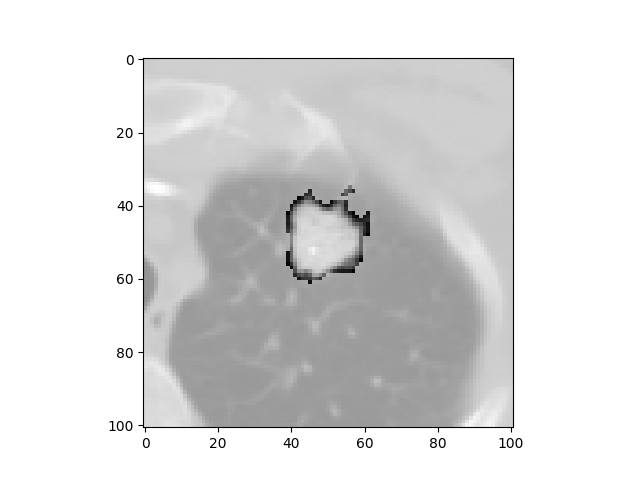
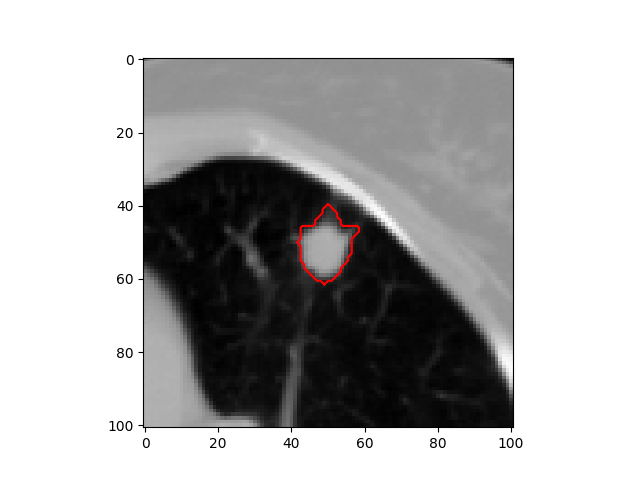
Added jaccard distance to distance metrics. Augmented the resample function to allow sample in common coordinate systems.

diff --git a/pylidc/Annotation.py b/pylidc/Annotation.py
@@ -687,7 +687,9 @@ class Annotation(Base):
         # Return the included points minus the excluded points.
         return included.difference( excluded )
 
-    def uniform_cubic_resample(self, side_length=None, verbose=True):
+    def uniform_cubic_resample(self, side_length=None, resample_vol=True,
+                               irp_pts=None, return_irp_pts=False,
+                               verbose=True):
         """
         Get the CT value volume and respective boolean mask volume. The 
         volumes are interpolated and resampled to have uniform spacing of 1mm
@@ -707,16 +709,32 @@ class Annotation(Base):
             out-of-bounds image index, then the image is padded with 
             the minimum CT image value.
 
+        resample_vol: boolean, default True
+            If False, only the segmentation volume is resampled.
+
+        irp_pts: 3-tuple from meshgrid
+            If provided, the volume(s) will be resampled over these interpolation
+            points, rather than the automatically calculated points. This allows
+            for sampling segmentation volumes over a common coordinate-system.
+
+        return_irp_pts: boolean, default False
+            If True, the interpolation points (ix,iy,iz) at which the volume(s)
+            were resampled are returned. These can potentially be provided as
+            an argument to `irp_pts` for separate selfotations that refer to the
+            same nodule, allowing the segmentation volumes to be resampled in a
+            common coordinate-system.
+
         verbose: boolean, default True
             Turn the loading statement on / off.
 
-        returns: ct_volume, mask
+        returns: [ct_volume,] mask [, irp_pts]
             `ct_volume` and `mask` are the resampled CT and boolean 
-            volumes, respectively.
+            volumes, respectively. `ct_volume` and `irp_points` are optionally
+            returned, depending on which flags are set (see above).
 
         Example:
             >>> self = pl.query(pl.Annotation).first()
-            >>> ct_volume, mask = ann.uniform_cubic_resample(side_length=70)
+            >>> ct_volume, mask = self.uniform_cubic_resample(side_length=70)
             >>> print(ct_volume.shape, mask.shape)
             >>> # => (71, 71, 71), (71, 71, 71)
             >>> # (Nodule is centered at (35,35,35).)
@@ -799,17 +817,17 @@ class Annotation(Base):
 
         # Compute new interpolation grid points in x.
         d = 0.5*(side_length-(xmax - xmin))
-        xhat, step = np.linspace(xmin-d, xmax+d, side_length+1, retstep=True)
+        xhat, step = np.linspace(xmin-d, xmax+d, int(side_length)+1, retstep=True)
         assert abs(step-1) < 1e-5, "New x spacing != 1."
 
         # Do the same for y.
-        d = 0.5*(side_length-(ymax - ymin))
-        yhat, step = np.linspace(ymin-d, ymax+d, side_length+1, retstep=True)
+        d = 0.5*(int(side_length)-(ymax - ymin))
+        yhat, step = np.linspace(ymin-d, ymax+d, int(side_length)+1, retstep=True)
         assert abs(step-1) < 1e-5, "New y spacing != 1."
 
-        # Do the same for y.
-        d = 0.5*(side_length-(zmax - zmin))
-        zhat, step = np.linspace(zmin-d, zmax+d, side_length+1, retstep=True)
+        # Do the same for z.
+        d = 0.5*(int(side_length)-(zmax - zmin))
+        zhat, step = np.linspace(zmin-d, zmax+d, int(side_length)+1, retstep=True)
         assert abs(step-1) < 1e-5, "New z pixel spacing != 1."
 
         # } End interpolation grid creation.
@@ -874,9 +892,10 @@ class Annotation(Base):
 
 
         # Create the non-interpolated CT volume.
-        ctvol = np.zeros(x.shape+y.shape+z.shape, dtype=np.float64)
-        for k in range(z.shape[0]):
-            ctvol[:,:,k] = images[k+az].pixel_array[ax:bx, ay:by]
+        if resample_vol:
+            ctvol = np.zeros(x.shape+y.shape+z.shape, dtype=np.float64)
+            for k in range(z.shape[0]):
+                ctvol[:,:,k] = images[k+az].pixel_array[ax:bx, ay:by]
 
         # We currently only have the boolean mask volume on the domain
         # of the bounding box. Thus, we must "place it" in the appropriately
@@ -889,22 +908,36 @@ class Annotation(Base):
                       mode='constant', constant_values=False)
 
         # Obtain minimum image value to use as const for interpolation.
-        fillval = min([img.pixel_array.min() for img in images])
+        if resample_vol:
+            fillval = min([img.pixel_array.min() for img in images])
 
-        ix,iy,iz = np.meshgrid(xhat, yhat, zhat, indexing='ij')
+        if irp_pts is None:
+            ix,iy,iz = np.meshgrid(xhat, yhat, zhat, indexing='ij')
+        else:
+            ix,iy,iz = irp_pts
         IXYZ = np.c_[ix.flatten(), iy.flatten(), iz.flatten()]
 
         # Interpolate the nodule CT volume.
-        rgi = RegularGridInterpolator(points=(x, y, z), values=ctvol,
-                                      bounds_error=False, fill_value=fillval)
-        ictvol = rgi(IXYZ).reshape(ix.shape)
+        if resample_vol:
+            rgi = RegularGridInterpolator(points=(x, y, z), values=ctvol,
+                                          bounds_error=False, fill_value=fillval)
+            ictvol = rgi(IXYZ).reshape(ix.shape)
 
         # Interpolate the mask volume.
         rgi = RegularGridInterpolator(points=(x, y, z), values=mask,
                                       bounds_error=False, fill_value=False)
-        imask = rgi(IXYZ).reshape(ix.shape)
+        imask = rgi(IXYZ).reshape(ix.shape) > 0
 
-        return ictvol, imask
+        if resample_vol:
+            if return_irp_pts:
+                return ictvol, imask, (ix,iy,iz)
+            else:
+                return ictvol, imask
+        else:
+            if return_irp_pts:
+                return imask, (ix,iy,iz)
+            else:
+                return imask
 
 
 # Add the relationship to the Scan model.

diff --git a/pylidc/annotation_distance_metrics.py b/pylidc/annotation_distance_metrics.py
@@ -87,3 +87,19 @@ def hausdorff(ann1, ann2):
     return max(C.min(0).max(), C.min(1).max())
 
 metrics['hausdorff'] = hausdorff
+
+def jaccard(ann1, ann2):
+    """
+    The Jaccard distance [1] between the boolean volumes as point sets. The
+    Jaccard distance is one minus the "intersection over union" score and is a
+    value between 0 and 1. Distance 0 indicates perfect overlap
+    (intersection/union = 1), while distance 1 indicates no overlap.
+
+    [1]: https://en.wikipedia.org/wiki/Jaccard_index
+    """
+    A1 = ann1._as_set()
+    A2 = ann2._as_set()
+    I = len(A1.intersection(A2))
+    return 1.0 - I*1.0 / len(A1.union(A2))
+
+metrics['jaccard'] = jaccard

diff --git a/pylidc/Scan.py b/pylidc/Scan.py
@@ -302,8 +302,13 @@ class Scan(Base):
         if all([(len(fname)==len(fnames[0])) for fname in fnames]):
             L = len(fnames[0]) - len('.dcm') # Just being explicit here.
             str_format = ("%0"+str(L)+"d.dcm")
+            
+            # If the zero file doesn't exist, start at 1.
+            offset = not os.path.exists(str_format % 0)
+
             for i,fname in enumerate(sorted_fnames):
-                sorted_fnames[i] = str_format % int(fname.split('.')[0])
+                ii = int(fname.split('.')[0]) + offset
+                sorted_fnames[i] = str_format % ii
 
         images = []
         for dicom_file_name in sorted_fnames:

diff --git a/setup.py b/setup.py
@@ -5,7 +5,7 @@ here = path.abspath(path.dirname(__file__))
 
 setup(
     name='pylidc',
-    version='0.1.2',
+    version='0.1.3',
     description='A library for working with the LIDC dataset.',
     long_description='',
     url='https://github.com/pylidc/pylidc',

diff --git a/pylidc/__init__.py b/pylidc/__init__.py
@@ -23,7 +23,7 @@ For more information, see the model classes themselves.
 """
 from __future__ import print_function as _pf
 
-__version__ = '0.1.2'
+__version__ = '0.1.3'
 
 # Hidden stuff.
 import os as _os

diff --git a/README.md b/README.md
@@ -1,6 +1,8 @@
 # pylidc
 
-`pylidc` is a python library intended to enhance workflow associated with the LIDC dataset, including utilities for both querying by attributes (e.g., collecting all annotations where malignancy is labeled as greater than 3 and spiculation is labeled a value equal to 1), and for common functional routines that act on the associated data (e.g., estimating the diameter or volume of a nodule from one of its annotations). Routines for visualizing the annotations, both atop the CT data and as a surface in 3D, are implemented. These functionalities are implemented via an object relational mapping (ORM), using `sqlalchemy` to an sqlite database containing the annotation information from the XML files provided by the LIDC dataset.
+`pylidc` is a python library intended to enhance workflow associated with the [LIDC dataset](https://wiki.cancerimagingarchive.net/display/Public/LIDC-IDRI), including utilities for both querying by attributes (e.g., collecting all annotations where malignancy is labeled as greater than 3 and spiculation is labeled a value equal to 1), and for common functional routines that act on the associated data (e.g., estimating the diameter or volume of a nodule from one of its annotations). 
+
+Routines for visualizing the annotations, both atop the CT data and as a surface in 3D, are implemented. These functionalities are implemented via an object relational mapping (ORM), using `sqlalchemy` to an sqlite database containing the annotation information from the XML files provided by the LIDC dataset.
 
 ![](https://raw.githubusercontent.com/pylidc/pylidc/master/img/viz-in-scan-example.png)
 ![](https://raw.githubusercontent.com/pylidc/pylidc/master/img/viz-in-3d-example.png)
@@ -152,13 +154,24 @@ Another common objective is to query for an `Annotation` object which is constra
 
 The `Annotation` member function, `uniform_cubic_resample`, takes a cubic region of interest with the centroid at the center of the volume. The corresponding CT value volume is resampled to have voxel spacing of 1 millimeter and a side length as given by the functions `side_length` parameter. Along with the uniformly resampled, cubic CT image volume, a corresponding boolean-valued volume is also returned that is 1 where the nodule exists in the resampled CT volume and 0 otherwise.
     
+    import pylidc as pl
+    import matplotlib.pyplot as plt
+    from skimage.measure import find_contours
+
     ann = pl.query(pl.Annotation).first()
     vol, seg = ann.uniform_cubic_resample(side_length = 100)
     print(vol.shape, seg.shape)
     # => (101, 101, 101) (101, 101, 101)
 
-    import matplotlib.pyplot as plt
-    plt.imshow( vol[:,:,50] * (seg[:,:,50]*0.8 + 0.2), cmap=plt.cm.gray)
+    # View middle slice of interpolated volume (pixel spacing now = 1mm)
+    plt.imshow(vol[:,:,50], cmap=plt.cm.gray)
+
+    # View middle slice of interpolated segmentation volume as contours
+    # atop the interpolated image.
+    contours = find_contours(seg[:,:,50], 0.5)
+    for contour in contours:
+        plt.plot(contour[:,1], contour[:,0], '-r')
+
     plt.show()
 
 ![](https://raw.githubusercontent.com/pylidc/pylidc/master/img/resample-example.png)
